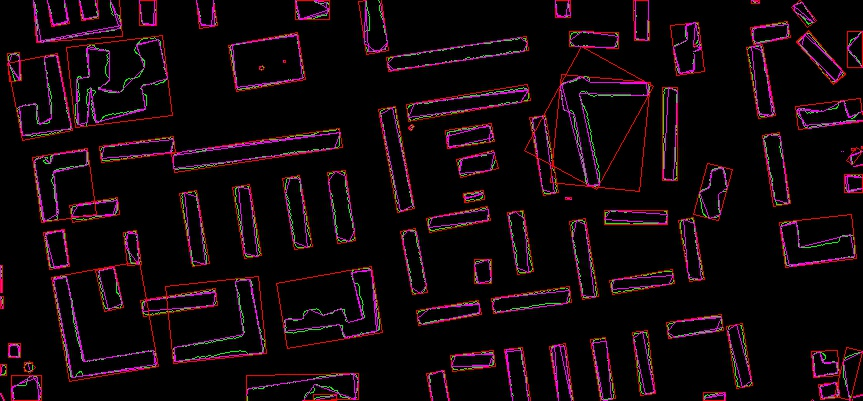
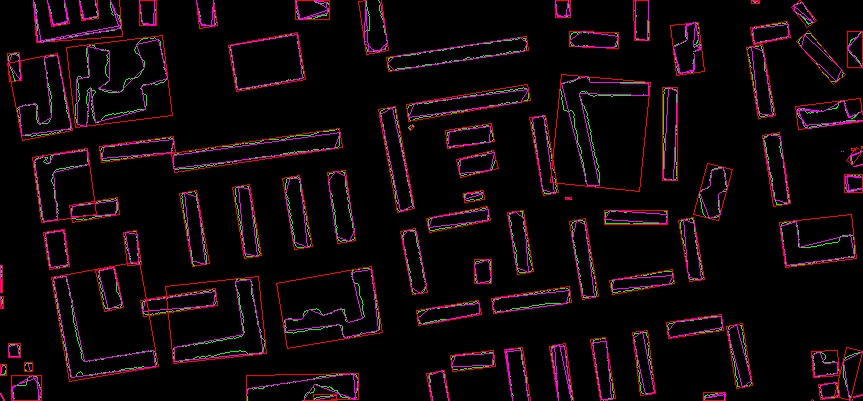
Поворот контура

diff --git a/main.cpp b/main.cpp
@@ -111,8 +111,11 @@ void printPoints(vector<Point> points) {
 }
 
 void gribovAlgorithm() {
-    Mat img = imread("../oneBuilding.png");
+    Mat img = imread("../oneBuilding.jpeg");
     cout << img.size() << endl;
+
+    int imgWidth = img.cols;
+    int imgHeight = img.rows;
 
     Mat contoursImg;
     Canny(img, contoursImg, 100, 255);
@@ -125,18 +128,128 @@ void gribovAlgorithm() {
     cout << contours[0].size() << endl;
 
     vector<Point> dpContour;
-    // dpContour = myDp::ramerDouglasPeuckerRecr(contours[0], 2);
-    approxPolyDP(contours[0], dpContour, 2, true);
-    printPoints(dpContour);
+    approxPolyDP(contours[0], dpContour, 3, true);
 
     cout << dpContour.size() << endl;
 
     Mat gridImg = Mat::zeros(img.size(), CV_8UC3);
+    Mat rotatedContourImg = Mat::zeros(img.size(), CV_8UC3);
+
     drawLines(gridImg, contours[0], blue);
     showImg(gridImg, "contour");
     gridImg = Mat::zeros(img.size(), CV_8UC3);
+
+    int gridStartX = 0;
+    int gridStartY = 0;
+    int gridIntervalX = 3;
+    int gridIntervalY = 3;
+
+    vector<Point> gridPoints;
+    for (int x = gridStartX; x < imgWidth; x += gridIntervalX) {
+        for (int y = gridStartY; y < imgHeight; y += gridIntervalY) {
+            gridPoints.push_back(Point(x, y));
+        }
+    }
+
+    drawPoints(gridImg, gridPoints, blue);
     drawLines(gridImg, dpContour, green);
+    drawPoints(gridImg, dpContour, red);
     showImg(gridImg, "dp contour");
+
+    RotatedRect rect = minAreaRect(dpContour);
+    double rotationAngle = rect.angle;
+    cout << rotationAngle << endl;
+
+//    // поворот
+//    Mat pts_mat(dpContour.size(), 2, CV_64FC1);
+//    for (int j = 0; j < pts_mat.rows; ++j) {
+//        pts_mat.at<double>(j,0) = dpContour[j].x;
+//        pts_mat.at<double>(j,1) = dpContour[j].y;
+//    }
+//
+//    PCA pca(pts_mat, Mat(), PCA::DATA_AS_ROW);
+//
+//    // В отдельный вектор выносим собственные вектора,
+//    // полученные при помощи PCA.
+//    vector<Point2d> eigen_vecs(2);
+//    vector<double> eigen_val(2);
+//    for(int j = 0; j < 2; ++j) {
+//        eigen_vecs[j] = Point2d(pca.eigenvectors.at<double>(j,0), pca.eigenvectors.at<double>(j,1));
+//        eigen_val[j] = pca.eigenvalues.at<double>(0, j);
+//    }
+//
+//    Point pos = Point(pca.mean.at<double>(0, 0), pca.mean.at<double>(0, 1));
+//    line(rotatedContourImg, pos, pos + 0.02 * Point(eigen_vecs[0].x * eigen_val[0], eigen_vecs[0].y * eigen_val[0]) , CV_RGB(255, 255, 0));
+//    line(rotatedContourImg, pos, pos + 0.02 * Point(eigen_vecs[1].x * eigen_val[1], eigen_vecs[1].y * eigen_val[1]) , CV_RGB(0, 255, 255));
+//
+//    drawLines(rotatedContourImg, dpContour, green);
+//
+//    // Искомый угол.
+//    double angle = atan2(eigen_vecs[0].y, eigen_vecs[0].x);
+//    cout << angle << endl;
+
+    Moments cntMoments = moments(dpContour);
+    double centerX = cntMoments.m10 / cntMoments.m00;
+    double centerY = cntMoments.m01 / cntMoments.m00;
+    Point centroid = Point(centerX, centerY);
+    vector<Point> centerPoints;
+    centerPoints.push_back(centroid);
+    drawPoints(rotatedContourImg, centerPoints, Scalar(255, 255, 0));
+    // double rotationAngle = 90;
+    vector<Point> rotatedContour;
+    for (Point point: dpContour) {
+        Point centeredPoint = point - centroid;
+        double phi = atan2(centeredPoint.y, centeredPoint.x);
+        double rho = sqrt(centeredPoint.x * centeredPoint.x + centeredPoint.y * centeredPoint.y);
+         double phiInDeg = phi * 180 / M_PI;
+         // double newAngle = (int)(phiInDeg + rotationAngle) % 360;
+         double newAngle = phiInDeg - rotationAngle;
+         double newAngleInRad = newAngle / 180 * M_PI;
+        // double newAngleInRad = phi - angle;
+        int x = rho * cos(newAngleInRad);
+        int y = rho * sin(newAngleInRad);
+        cout << "Phi " << phi << endl;
+//        cout << "Phi in deg " << phiInDeg << endl;
+//        cout << "Rotated angle " << newAngle << endl;
+        cout << "New angle in rad " << newAngleInRad << endl;
+        cout << "Centered point " << centeredPoint << endl;
+        Point rotatedPoint = Point(x, y);
+        cout << "Rotated point " << rotatedPoint << endl;
+        Point inPlacePoint = rotatedPoint + centroid;
+        cout << "Old " << point.x << " " << point.y << endl;
+        cout << "New " << inPlacePoint.x << " " << inPlacePoint.y << endl;
+        rotatedContour.push_back(inPlacePoint);
+        int dist_x = (inPlacePoint.x-gridStartX) % gridIntervalX;
+        int dist_y = (inPlacePoint.y-gridStartY) % gridIntervalY;
+        int near_x;
+        int near_y;
+        if (dist_x < gridIntervalX / 2.0) {
+            near_x = inPlacePoint.x - dist_x;
+        } else {
+            near_x = inPlacePoint.x + (gridIntervalX - dist_x);
+        }
+        if (dist_y < gridIntervalY / 2.0) {
+            near_y = inPlacePoint.y - dist_y;
+        } else {
+            near_y = inPlacePoint.y + (gridIntervalY - dist_y);
+        }
+        Point nearGridPoint = Point(near_x, near_y);
+        vector<Point> neighborPoints;
+        neighborPoints.push_back(nearGridPoint);
+        for (int i = -1; i <= 1; i++) {
+            for (int j = -1; j <= 1; j++) {
+                neighborPoints.push_back(Point(near_x + i * gridIntervalX, near_y + j * gridIntervalY));
+            }
+        }
+        drawPoints(rotatedContourImg, neighborPoints, blue);
+        cout << "Point " << inPlacePoint << endl;
+        cout << "Dist " << dist_x << " " << dist_y << endl;
+        cout << "Near grid point " << nearGridPoint << endl;
+    }
+    drawLines(rotatedContourImg, dpContour, green);
+    drawLines(rotatedContourImg, rotatedContour, red);
+    drawPoints(rotatedContourImg, rotatedContour, Scalar(0, 255, 255));
+    showImg(rotatedContourImg, "rotated");
 }
 
 // высчитывает длину перпенидкуляра от точки zero до отрезка first-second через формулу площади треугольника
@@ -392,7 +505,7 @@ void rotatedMinAreaRect() {
     cvtColor(img, grayImg, COLOR_BGR2GRAY);
     Canny(grayImg, cannyOutput, 100, 255);
     vector<vector<Point>> contours;
-    findContours(cannyOutput, contours, RETR_TREE, CHAIN_APPROX_SIMPLE);
+    findContours(cannyOutput, contours, RETR_EXTERNAL, CHAIN_APPROX_SIMPLE);
     vector<vector<Point>> hull(contours.size());
     for (size_t i = 0; i < contours.size(); i++) {
         convexHull(contours[i], hull[i]);
@@ -404,15 +517,34 @@ void rotatedMinAreaRect() {
     cout << contours.size();
     for (size_t i = 0; i < contours.size(); i++) {
         vector<Point> contour = contours[i];
-        RotatedRect boundRect = minAreaRect(contour);
+        RotatedRect minRect = minAreaRect(contour);
+        Rect boundRect = boundingRect(contour);
+        int left = boundRect.x;
+        int top = boundRect.y;
+        int width = boundRect.width;
+        int height = boundRect.height;
+        int x_end = left + width;
+        int y_end = top + height;
+        int cntArea = 0;
+        for (int x = left; x < x_end; x++)
+        {
+            for (int y = top; y < y_end; y++)
+            {
+                double test = pointPolygonTest(contour, Point2f(x, y), false);
+                if (test == 1 || test == 0) {
+                    cntArea += 1;
+                }
+            }
+        }
+        cout << i << endl;
         cout << "Contour size " << contour.size() << endl;
-        cout << "Contour area " << contourArea(contour) << endl;
-        cout << "Rect area " << boundRect.size.area() << endl;
+        cout << "Contour moment area " << moments(contour).m00 << endl;
+        cout << "Contour area " << cntArea << endl;
+        cout << "Rect size " << minRect.size << endl;
+        cout << "Rect area " << minRect.size.area() << endl;
         Point2f rectPoints[4];
-        boundRect.points(rectPoints);
+        minRect.points(rectPoints);
         drawContours(drawing, contours, (int)i, contourColor);
-        char buffer[100] = {};
-        sprintf(buffer, "%f %f", contourArea(contour), boundRect.size.area());
         for ( int j = 0; j < 4; j++ )
         {
             line( drawing, rectPoints[j], rectPoints[(j+1)%4], rectColor );
